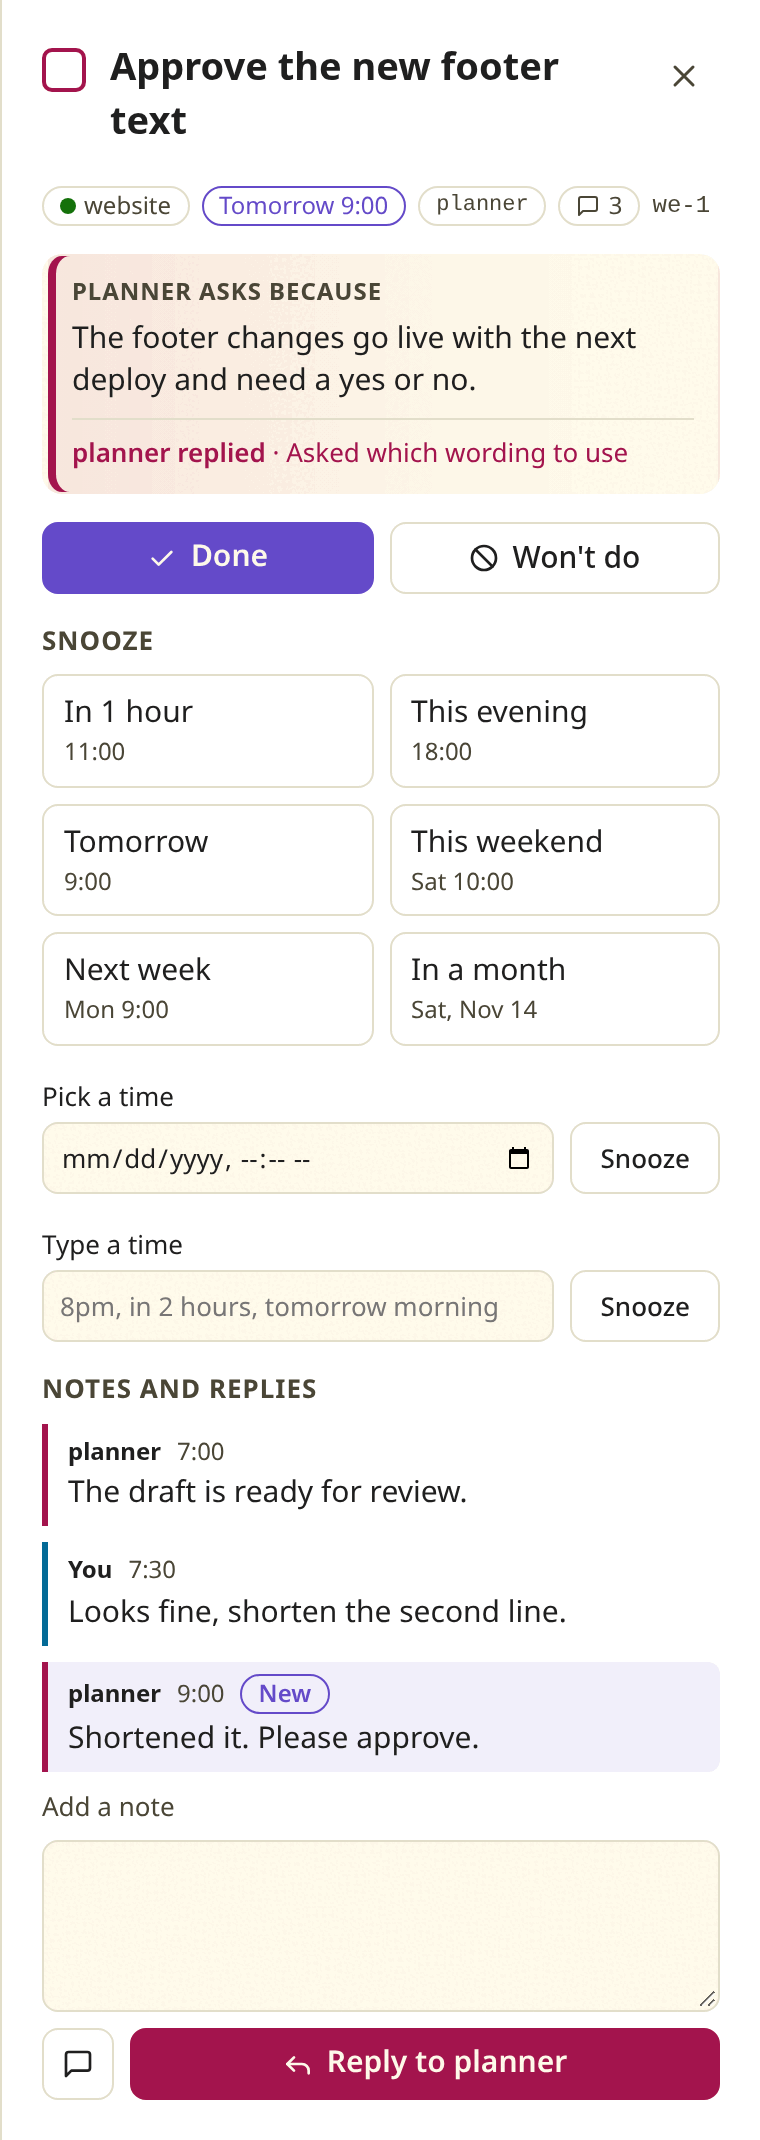
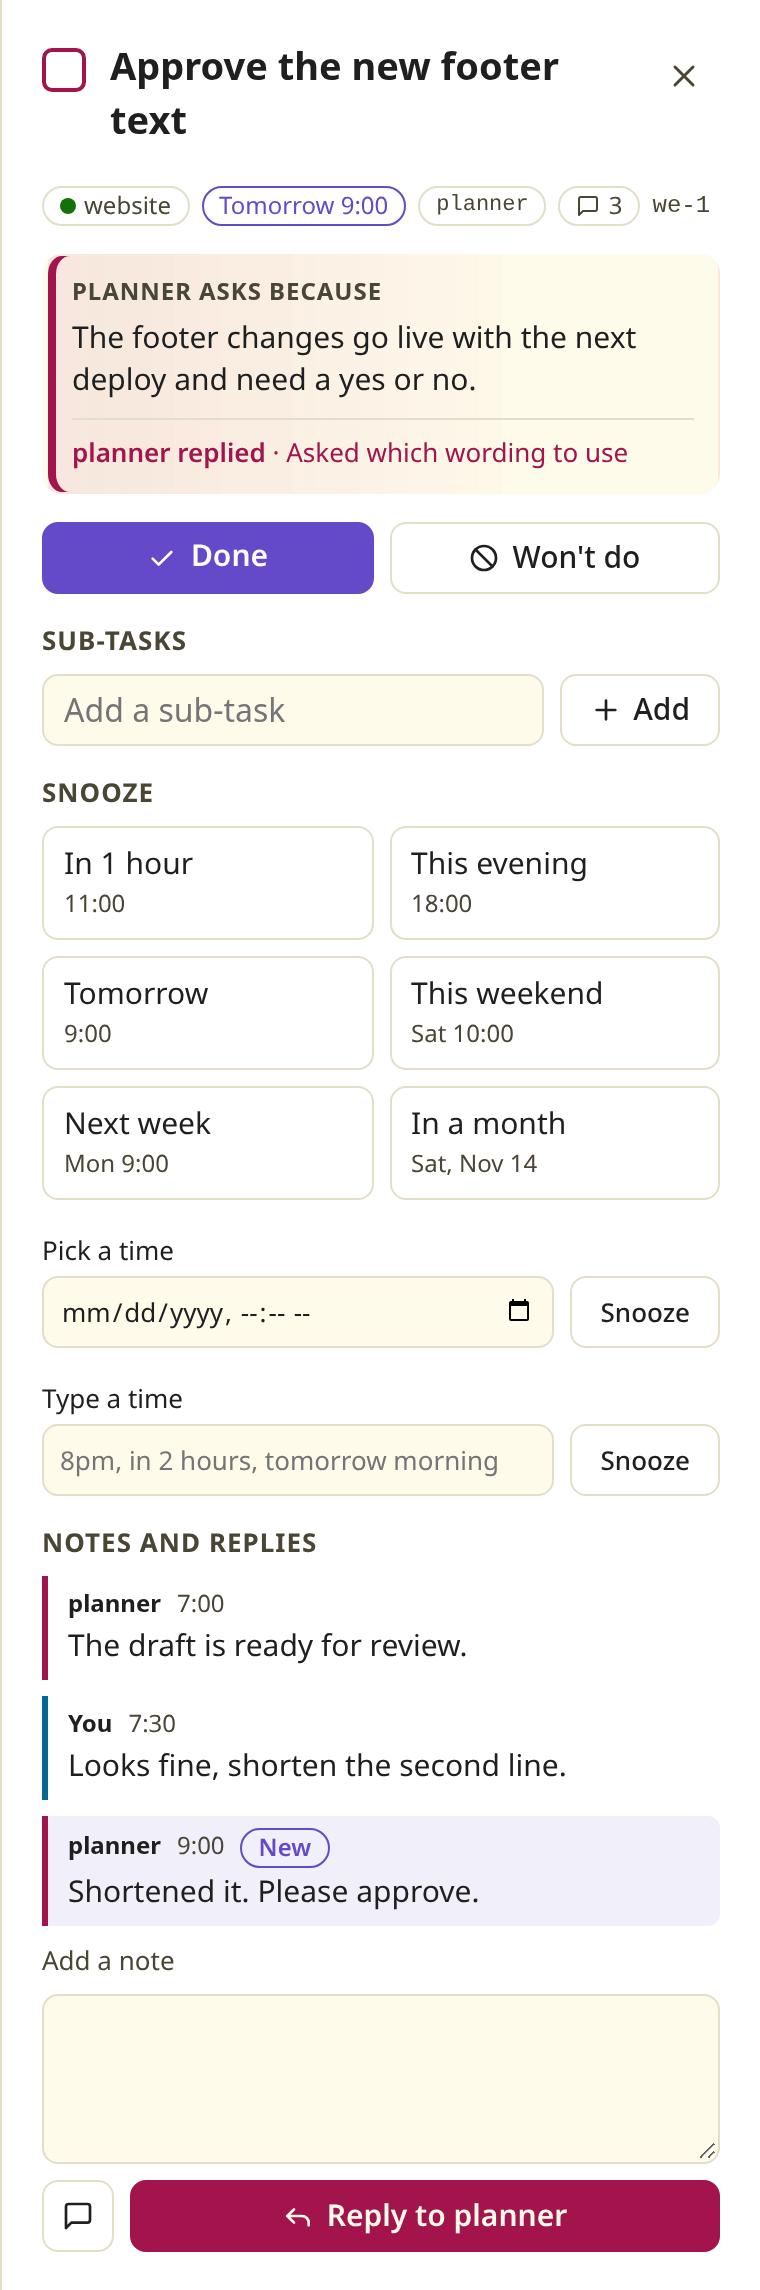
README: retake screenshots, add month and details images, tracker-neutral diagram
Retake every app screenshot against the current UI from the fake hub, and
add month-view.png (Plan your month) and details-files.png (Keep the
details with the task). Redraw "How it fits together" so the bridge talks
to your task tracker and starts your coding agent, whichever ones the
machine uses, and make the remaining beads-only sentences neutral. The
style guide records the image list and the full recipe.

diff --git a/README.md b/README.md
@@ -5,7 +5,7 @@ Style guide for this page.
 - Public repo: invented examples only (Alex, Sam, example.com, "Water the plants"). Deployment wording stays generic: "an always-on host", "a Tailscale Service", never one operator's names, paths or ports.
 - Shape: name and bold line, screenshot, picture of how it fits, why it exists, what you can do (one heading and one picture or example each), what it works with (a tracker table and a harness table), is this for you, start here table, reference (getting started, contributing, licence).
 - Setup detail lives in docs/deploy.md and the wire contract in docs/api.md; link to them, do not copy. The wizard step list under "Get started" follows web/src/wizard/steps and the step table in docs/deploy.md.
-- Images live in docs/images/ and show invented data only. They come from the web test fake hub (web/test/e2e/fake-hub.ts) and its fixed clock, shot with a throwaway Playwright spec (not committed) at deviceScaleFactor 2, phone 390x844 and desktop 1280 wide, with element shots of the new task bar (#qa-form) and the detail pane (#detail), and reduced to 8-bit PNGs; they are not the visual test baselines. The agent images set runs with the fake hub's allowAgents and setRun. Retake them when the screens they show change, and give each alt text that says what it shows.
+- Images live in docs/images/ and show invented data only. They come from the web test fake hub (web/test/e2e/fake-hub.ts) and its fixed clock, shot with a throwaway Playwright spec (not committed) at deviceScaleFactor 2, phone 390x844 and desktop 1280 wide, with element shots of the new task bar (#qa-form) and the detail pane (#detail), and reduced to 8-bit PNGs (ImageMagick `+dither -colors 256 PNG8:` does it); they are not the visual test baselines. Light shots set `meat-mode.theme` to `light` in localStorage before the page loads. Extra fixture data (a repeat, a checklist, tags, a Markdown description, an attachment drawn for the purpose rather than a real photo) goes in the throwaway spec, not in the fake hub. The agent images set runs with the fake hub's allowAgents and setRun. A tall detail pane is shot in a taller viewport and cropped below its last section in view, and the month view is cropped to the sidebar and the month, leaving out the empty detail pane. The images: desktop-today-detail, phone-today-dark, phone-detail, agent-run-sheet, new-task-agent, quick-add-repeat, details-files and month-view. Retake them when the screens they show change, and give each alt text that says what it shows.
 - Private network only: the hub is reached over Tailscale (Serve or a Tailscale Service) or a LAN reverse proxy, never the internet, and always has a password; the hub refuses internet requests and the bridge refuses a public hub. Login, session limits and password-again rules follow docs/api.md "Login". Never suggest Funnel, Cloudflare Tunnel, port forwards or a public calendar feed; detail lives in docs/deploy.md, "Private network only".
 - Agent runs: keep the "This is not a sandbox" caution in "Hand a task to an agent" whenever that section exists. Limits and defaults quoted there follow the table in docs/deploy.md, "Wake an agent on a task".
 - Android app: the install section is short: the badge first, one paragraph, then a collapsed details block for adding it by hand and checking it. It names the Obtainium badge link, APK filter and package ID. The badge link is an apps.obtainium.imranr.dev redirect carrying an obtainium://app/ config (double URL-encoded) with the APK filter and the certificate SHA-256; rebuild it when either changes. The badge image is Obtainium's assets/graphics/badge_obtainium.png, trimmed; keep them in step with docs/api.md "Android app" and docs/android-release.md. The certificate line holds the release key's SHA-256 and changes only with the key.
@@ -16,9 +16,9 @@ Style guide for this page.
 
 **One to-do list for the things only you can do: your own to-dos and the tasks your AI agents hand you, on your phone and your desktop.**
 
-![The Today list on a desktop: personal to-dos such as "Water the plants" and "Call Sam about the weekend" sit beside a task from an agent, "Approve the new footer text", whose details are open with the agent's reason, the command that lets agents work in that repo, Done and Won't do buttons and snooze choices.](docs/images/desktop-today-detail.png)
+![The Today list on a desktop: personal to-dos such as "Water the plants", with a garden tag, and "Call Sam about the weekend" sit beside a task from an agent, "Order compost for the beds". The agent's task "Approve the new footer text" is open on the right with the agent's reason, the command that lets agents work in that repo, Done and Won't do buttons, a sub-task box and snooze choices.](docs/images/desktop-today-detail.png)
 
-Your AI agents work in [beads](https://github.com/gastownhall/beads), an issue tracker that lives in your code repos. When an agent needs you for something it cannot do itself (approve a text, sign in somewhere, make a call), it files a task labelled `human`. Meat Mode gathers those tasks from every repo and every machine into one list, next to your own to-dos. You tick them off, snooze them, say no, or reply with a note, and your answer goes back to the agent in beads. In the repos you allow, one tap also wakes an agent to work on a task, and you watch how it goes on the task itself.
+Your AI agents keep their work in an issue tracker that lives in your code repos, such as [beads](https://github.com/gastownhall/beads). When an agent needs you for something it cannot do itself (approve a text, sign in somewhere, make a call), it files a task labelled `human`. Meat Mode gathers those tasks from every repo and every machine into one list, next to your own to-dos. You tick them off, snooze them, say no, or reply with a note, and your answer goes back to the agent in its tracker. In the repos you allow, one tap also wakes an agent to work on a task, and you watch how it goes on the task itself.
 
 beads is the example on this page. Meat Mode reads Backlog.md and ticket repos the same way, and runs Claude Code, Codex, OpenCode, Antigravity CLI or Pi as the agent: see [What it works with](#what-it-works-with).
 
@@ -31,12 +31,13 @@ flowchart LR
   phone["Your phone and desktop<br/>(the app)"] <--> hub["Meat Mode hub<br/>(always-on host)"]
   hub -- reminders --> phone
   bridge["Bridge<br/>(on your agent machine)"] -- dials out --> hub
-  bridge <--> beads["Task trackers in your repos<br/>(beads, Backlog.md, ticket)"]
-  bridge -- "starts, when you ask" --> agent["An agent<br/>(on its own copy of the repo)"]
+  bridge <-->|"tasks for you,<br/>your answers"| tracker["Your task tracker<br/>(in each repo)"]
+  bridge -- "starts, when you ask" --> agent["Your coding agent<br/>(on its own copy<br/>of the repo)"]
+  agent -- "replies, closes the task" --> tracker
 ```
 
 - **The hub** keeps your list, sends reminders and serves the app. Your personal to-dos need nothing else.
-- **The bridge** is a small background service on the machine your agents use. It finds the repos where your agents track their work, sends their `human` tasks up to the hub and plays your answers back into beads. When you ask, it starts an agent on a task in a repo you allowed. It always connects out to the hub, so the hub never reaches into your agent machine.
+- **The bridge** is a small background service on the machine your agents use. It finds the repos where your agents track their work, whichever tracker each one uses, sends the tasks marked for you up to the hub and plays your answers back into that tracker. When you ask, it starts the coding agent that machine is set to run, on a task in a repo you allowed; the agent replies and closes the task in the tracker, as it would on its own. It always connects out to the hub, so the hub never reaches into your agent machine.
 
 ## Why it exists
 
@@ -51,8 +52,8 @@ flowchart LR
 Each task from an agent shows why the agent needs you, which project it came from and the conversation so far. Tap **Done** or **Won't do**, snooze it to tonight or next week where its tracker can, or leave a note. The agent reads your note in its tracker, signed with your name, and can reply. Only the repos you switch on in Settings send tasks.
 
 <p>
-  <img src="docs/images/phone-today-dark.png" width="300" alt="The Today list on a phone in the dark theme, grouped into Past due, Today, This evening, Tomorrow and This week, with a New badge on an agent's task and a tab bar at the bottom.">
-  <img src="docs/images/phone-detail.png" width="300" alt="The to-do &quot;Water the plants&quot; open on a phone in the light theme: it repeats every day, has a checklist with one of two entries ticked, and offers Done, Edit, Delete and snooze choices.">
+  <img src="docs/images/phone-today-dark.png" width="300" alt="The Today list on a phone in the dark theme, grouped into Past due, Today, This evening, Tomorrow and This week. &quot;Call Sam about the weekend&quot; carries a weekend tag, the agent's task &quot;Order compost for the beds&quot; has a New badge, and a tab bar with Today, Upcoming, Agents and Browse sits at the bottom.">
+  <img src="docs/images/phone-detail.png" width="300" alt="The to-do &quot;Water the plants&quot; open on a phone in the light theme: it repeats every day and carries a garden tag, has a checklist with one of two entries ticked, and offers Done, Edit and Delete, a sub-task box, Files with Attach a file and Take a photo, and snooze choices.">
 </p>
 
 ### Hand a task to an agent
@@ -69,7 +70,7 @@ When a task is work an agent can do, wake one from the app. Write a note and tap
 When you add a task to a list where agents may work, the **Agent** button in the new task bar hands it straight to an agent. It starts off every time. **Stop all** in Settings ends every run at once. When a run you did not stop ends, you get one notification saying the agent replied, finished or stopped, with **Reply** and **Open** buttons.
 
 <p>
-  <img src="docs/images/agent-run-sheet.png" width="300" alt="The agent task &quot;Approve the new footer text&quot; open on a desktop. Its card reads &quot;planner replied: Asked which wording to use&quot;, and under the notes a pink button reads Reply to planner.">
+  <img src="docs/images/agent-run-sheet.png" width="300" alt="The agent task &quot;Approve the new footer text&quot; open on a desktop. Its card reads &quot;planner replied: Asked which wording to use&quot;, the notes show the conversation so far, and under the note box a pink button reads Reply to planner.">
   <img src="docs/images/new-task-agent.png" width="450" alt="The new task bar with &quot;Find a cheaper soil sensor&quot; typed in, the garden list chosen and the Agent button turned on, so the Add button turns pink and the line below reads &quot;It reads the task in garden and replies here.&quot;">
 </p>
 
@@ -91,9 +92,13 @@ Descriptions and notes show as Markdown, so an agent's checklist, table or link 
 
 On your own to-dos and projects you can attach files: a photo of the broken part, the PDF of the booking. Photos show as thumbnails and open in a tab; other files download. A file can be up to 25 MB, an item holds 20, and the hub keeps up to 1 GB in all. Agents' tasks take no files, since their trackers have nowhere to carry one back to the agent.
 
+<img src="docs/images/details-files.png" width="380" alt="The to-do &quot;Fix the gate latch&quot; open on a desktop, with the tags home and weekend. Its details show as Markdown: a sentence, a numbered list with &quot;8 mm&quot; in bold, and a link to example.com. Under Files, a thumbnail of a photo of the latch, named gate-latch.jpg, 24 KB, sits above an Attach a file button.">
+
 ### Plan your month
 
 Switch **Upcoming** from **List** to **Month** to see each day's dated items, with repeating to-dos on every later date of their series. To move something to another day, drag it on a desktop, or pick the day in **Move**, which a long press opens on a touch screen. Your own to-do keeps its time of day on its new date. An agent's task moves by a snooze, where its tracker can snooze.
+
+![The Upcoming view as a month on a desktop, October 2026. Today, the 14th, is circled; the 15th is selected and lists the agent's task "Approve the new footer text", "Buy seeds" snoozed until then, and "Put the bins out" at 19:00. The bins come back every week, shown as dashed entries with a repeat icon on the 22nd and 29th, and other to-dos sit on their days through the month.](docs/images/month-view.png)
 
 ### Take your data with you
 
@@ -184,7 +189,7 @@ It is not:
 | Connect the machine your agents run on | [Install the bridge](docs/deploy.md#3-install-the-bridge-on-the-agent-machine) and [Pair](docs/deploy.md#4-pair) |
 | Let an agent work on a task you hand it | [Wake an agent on a task](docs/deploy.md#wake-an-agent-on-a-task) |
 | Choose which coding agent runs a task | [docs/harnesses.md](docs/harnesses.md) |
-| Connect a tracker other than beads | [docs/trackers.md](docs/trackers.md) |
+| Use Backlog.md or ticket, or add a tracker | [docs/trackers.md](docs/trackers.md) |
 | Let agents add to your list from scripts | [Let agents add to your personal list](docs/deploy.md#let-agents-add-to-your-personal-list) |
 | Back up, or move to another host | [Back up](docs/deploy.md#back-up) |
 | Put it at your own domain on your LAN | [Behind a reverse proxy](docs/deploy.md#behind-a-reverse-proxy) |
